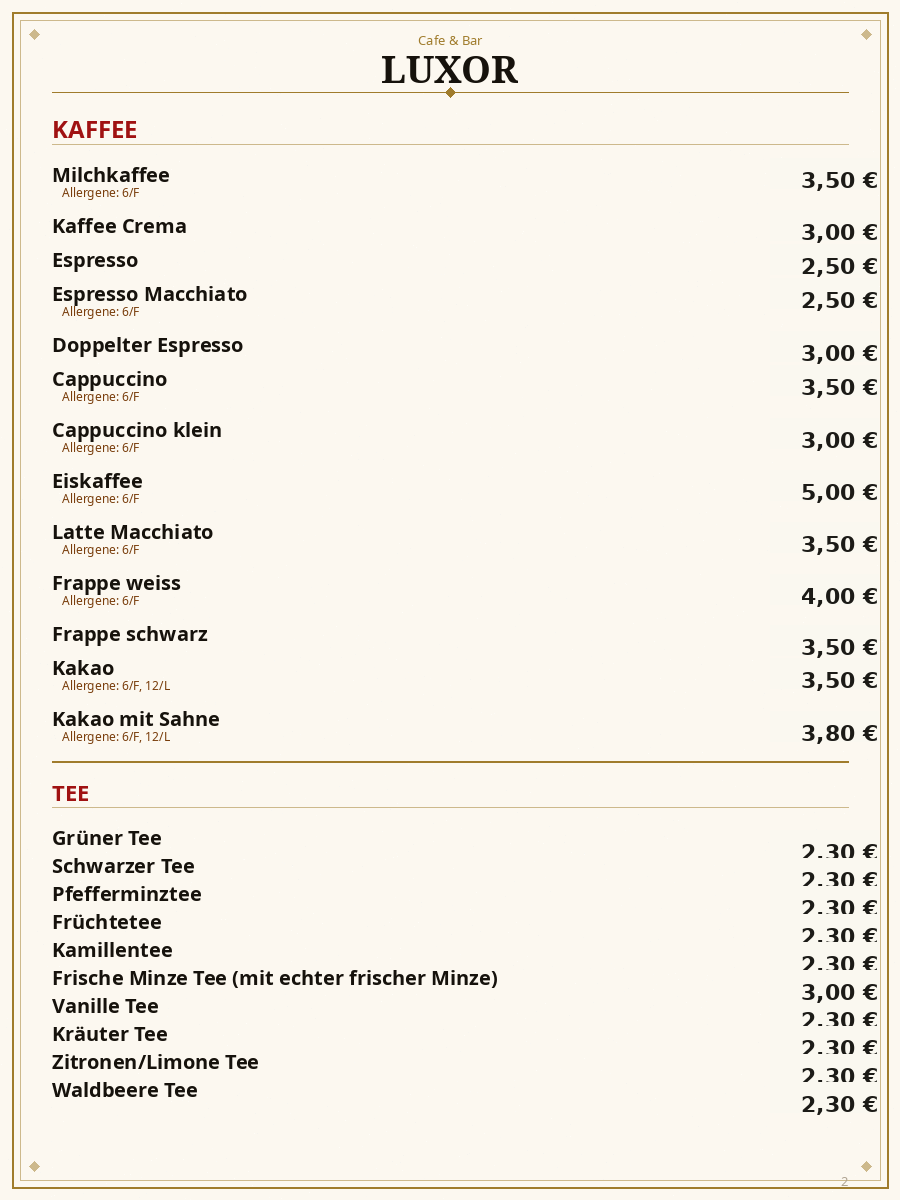
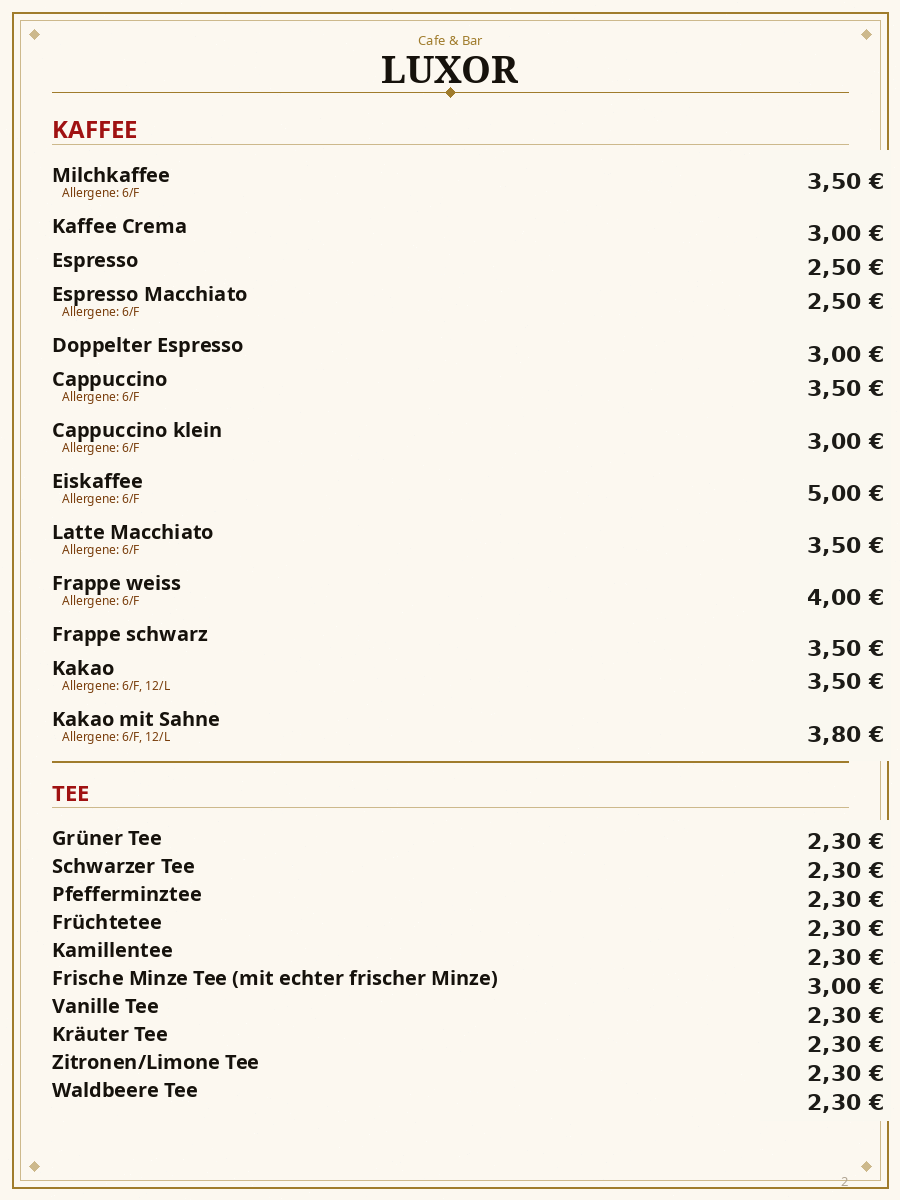
Checkpoint: Corrected only the German menu sheets requested by the owner: tea prices are complete and aligned; homemade lemonade prices are clean without leftover glyphs; bottled-beer heading/descriptor and prices are clean and aligned. All other German and English menu content remains unchanged. Te

Changed region(s): [[0.8711, 0.1233, 0.9956, 0.6167], [0.8711, 0.6783, 0.9956, 0.925]]

diff --git a/client/src/pages/Menu.flipbook.test.ts b/client/src/pages/Menu.flipbook.test.ts
@@ -1,4 +1,4 @@
-import { readFileSync } from "node:fs";
+import { existsSync, readFileSync } from "node:fs";
 import { resolve } from "node:path";
 import { describe, expect, it } from "vitest";
 
@@ -40,6 +40,13 @@ describe("flipbook closing cover", () => {
     expect(menuSource).toContain("'/media/p03_kalt_de_prices_20261104.png'");
     expect(menuSource).toContain("'/media/p04_limo_de_prices_20261104.png'");
     expect(menuSource).toContain("'/media/p05_bier_de_prices_20261104.png'");
+    for (const asset of [
+      "p02_kaffee_tee_de_prices_20261104.png",
+      "p04_limo_de_prices_20261104.png",
+      "p05_bier_de_prices_20261104.png",
+    ]) {
+      expect(existsSync(resolve(projectRoot, "client/public/media", asset))).toBe(true);
+    }
     expect(menuSource).toContain("'/media/p10_speisen_de_7c4e2a1b.png'");
     expect(menuSource).toContain("'/media/p10_speisen_en_7c4e2a1b.png'");
     expect(menuSource).not.toContain("'/media/p10_contact_de_4a7e1c2d.png'");
